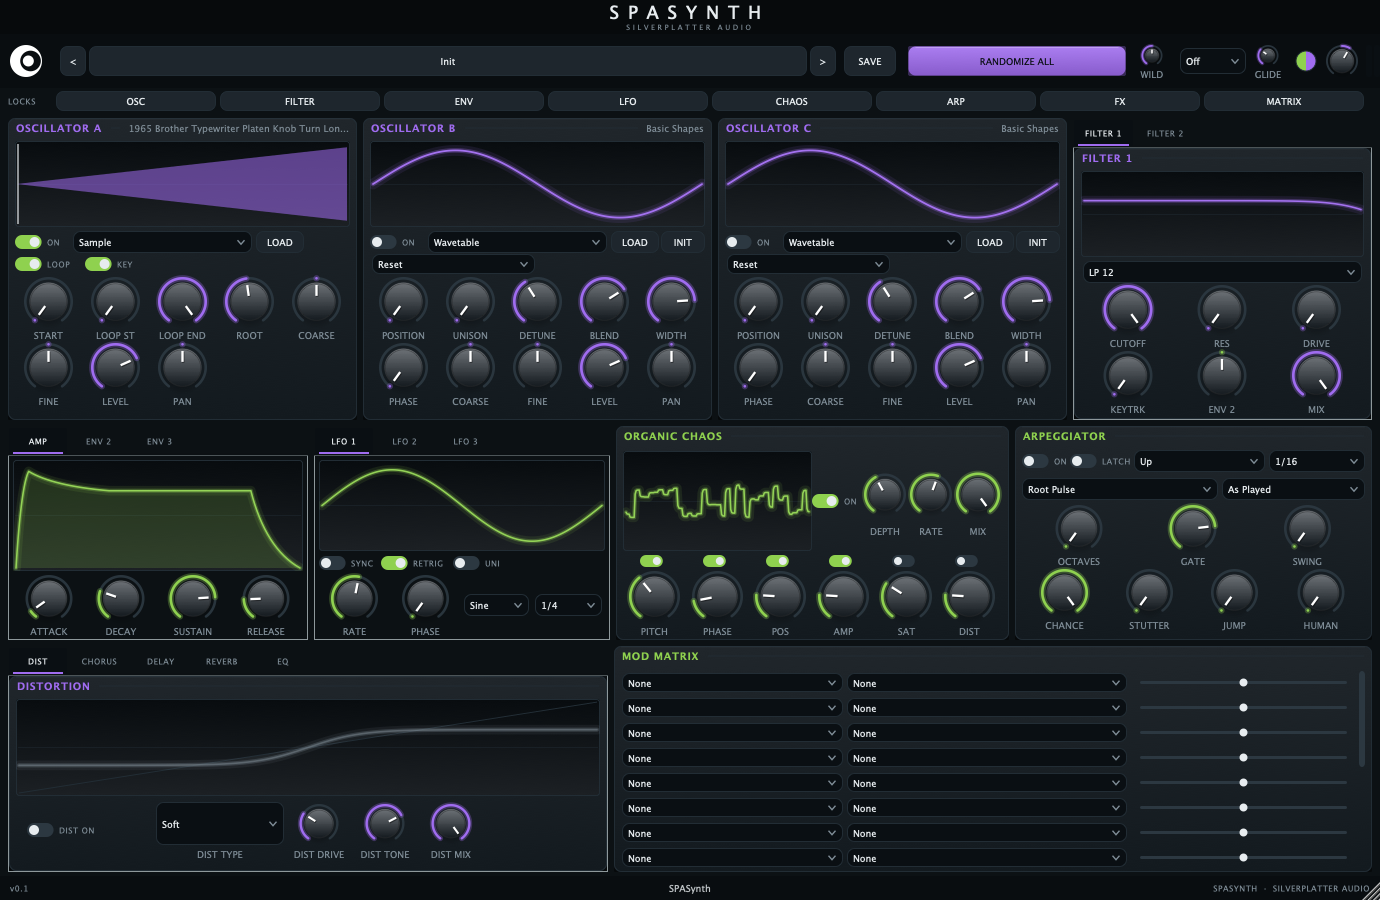
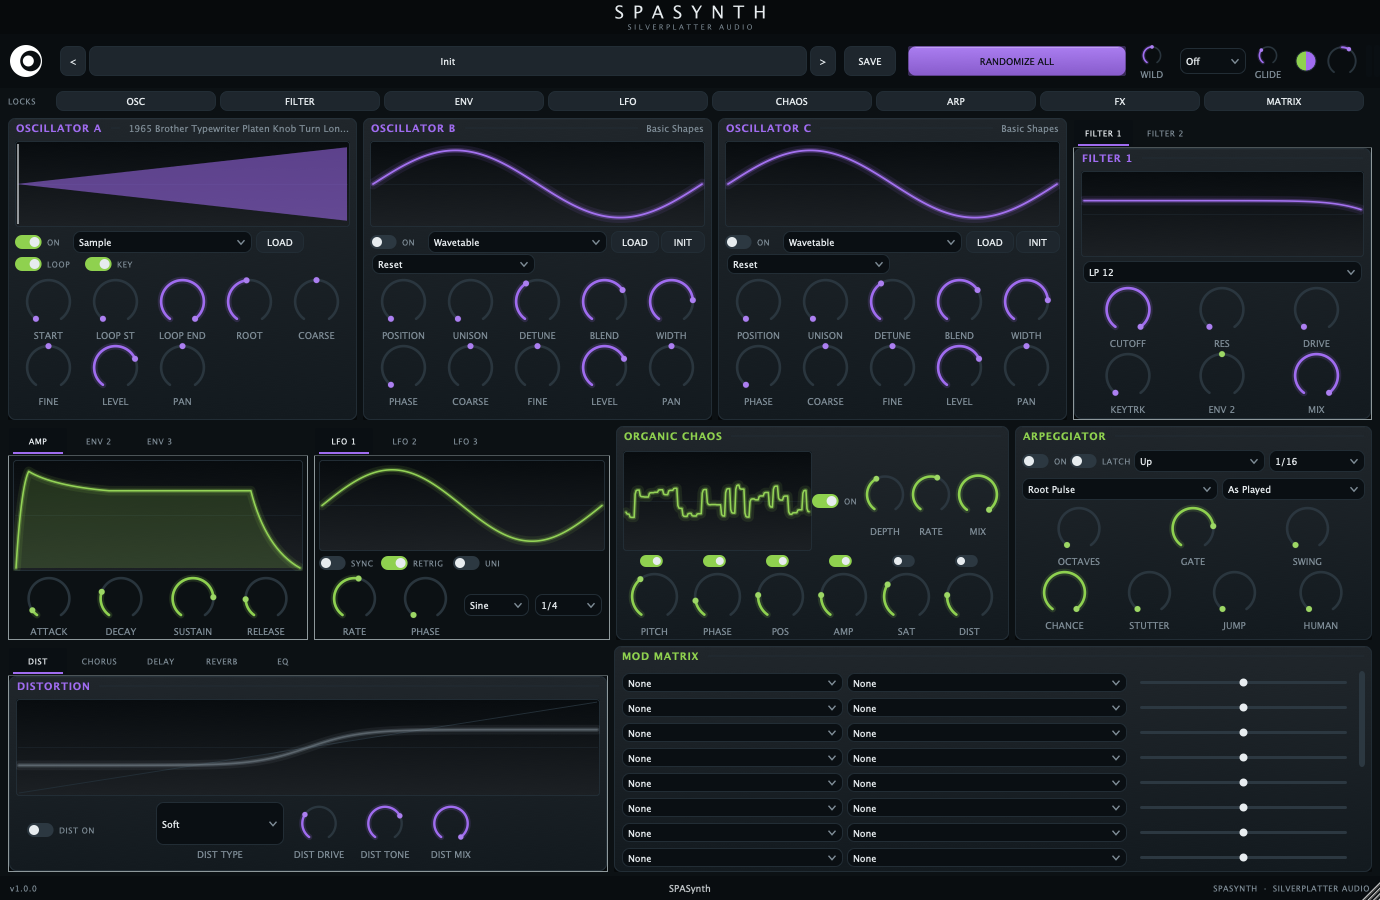
Update hero and retint screenshots to the v1.0.0 UI
Both source screenshots were refreshed (previously showed v0.1 in the
corner). Hero now shows the searchable preset browser panel open
instead of the oscillator/sample view; updated its alt text to match.
Retint showcase image swapped for the matching v1.0.0 capture.

diff --git a/index.html b/index.html
@@ -59,7 +59,7 @@
         <a class="btn btn-ghost" href="#features">Explore Features</a>
       </div>
       <div class="hero-shot" data-reveal>
-        <img src="assets/images/spasynth-hero.png" alt="SPASynth plugin interface showing oscillators, filters, organic chaos engine, arpeggiator, and mod matrix in its dark theme with teal accents" loading="eager">
+        <img src="assets/images/spasynth-hero.png" alt="SPASynth plugin interface in its dark theme with teal accents, showing the searchable preset browser alongside oscillators, filters, organic chaos engine, arpeggiator, and mod matrix" loading="eager">
       </div>
     </div>
   </section>